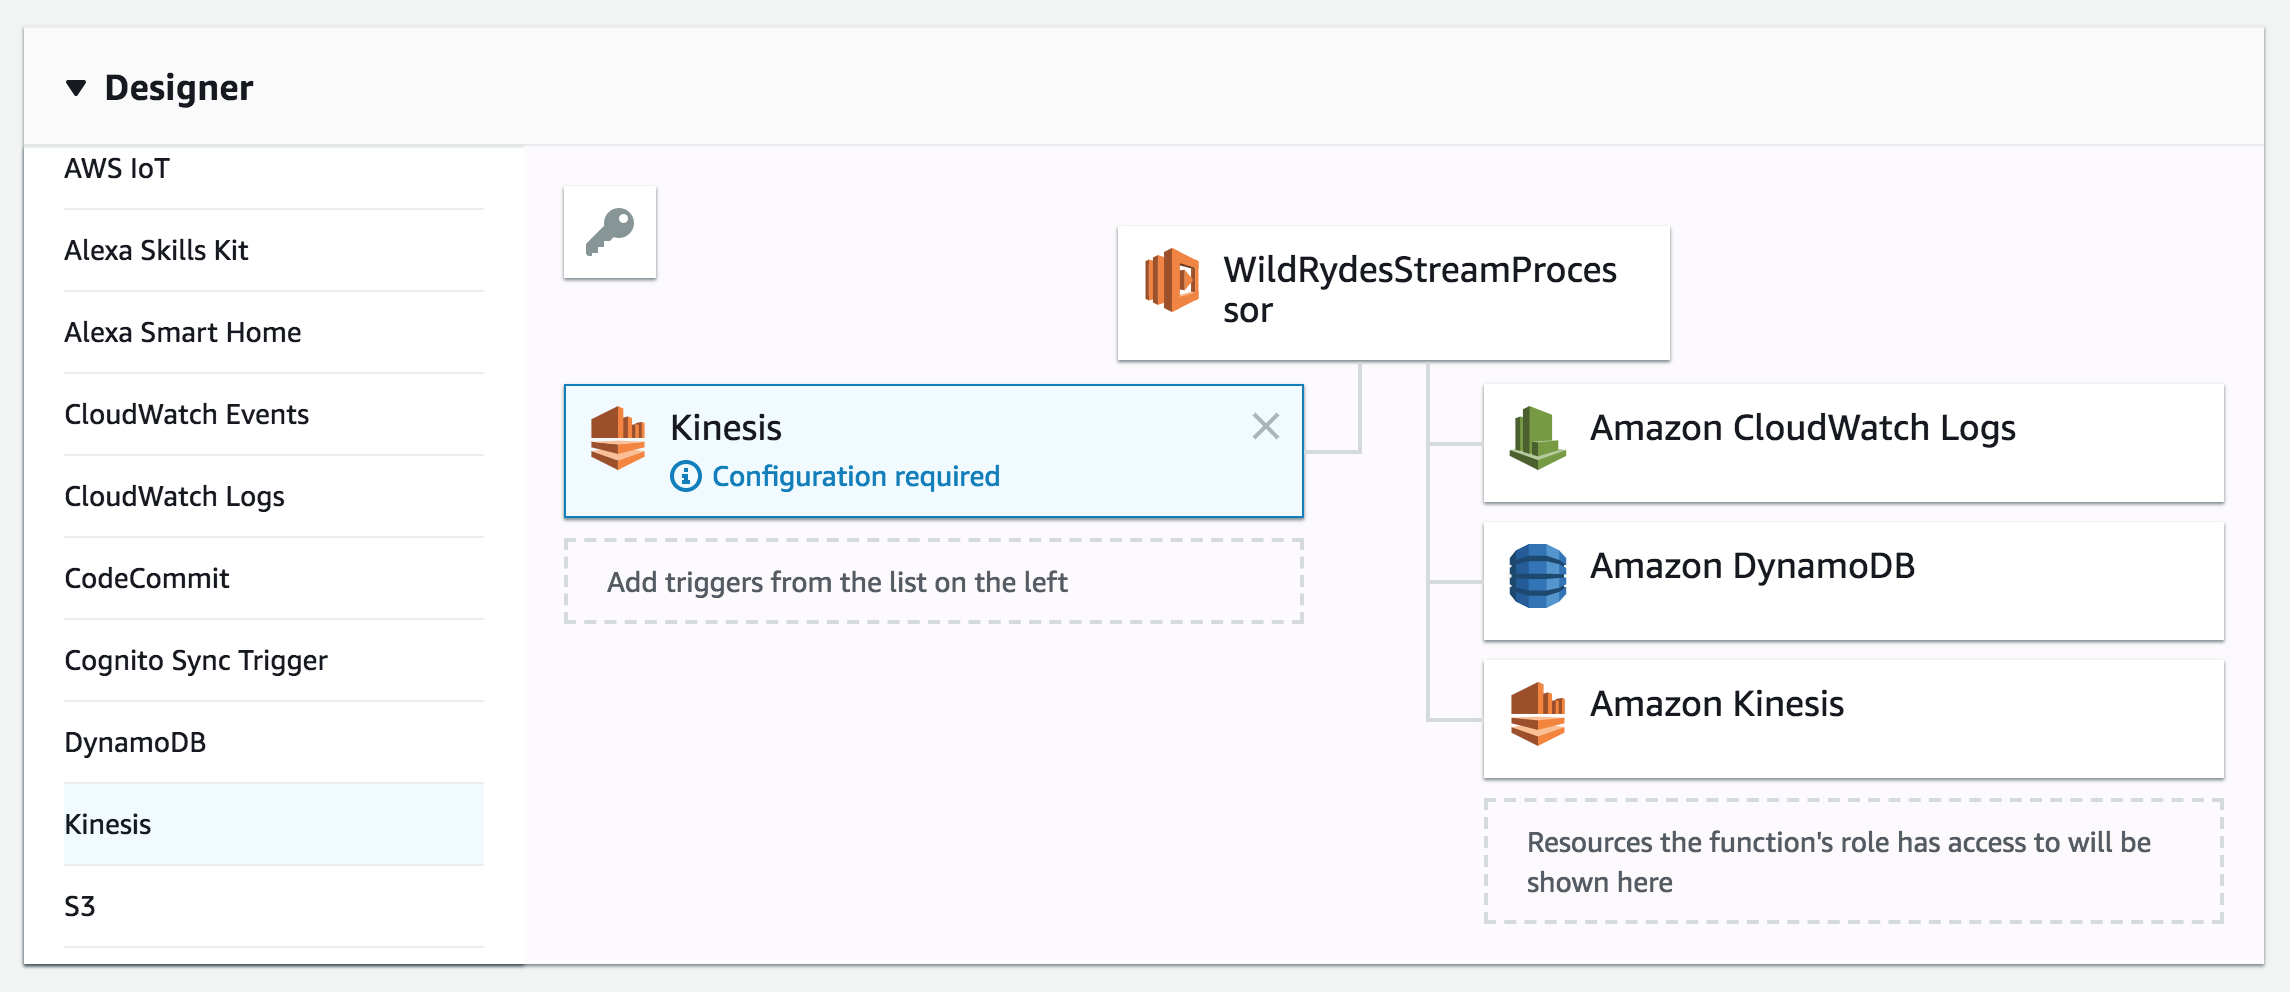
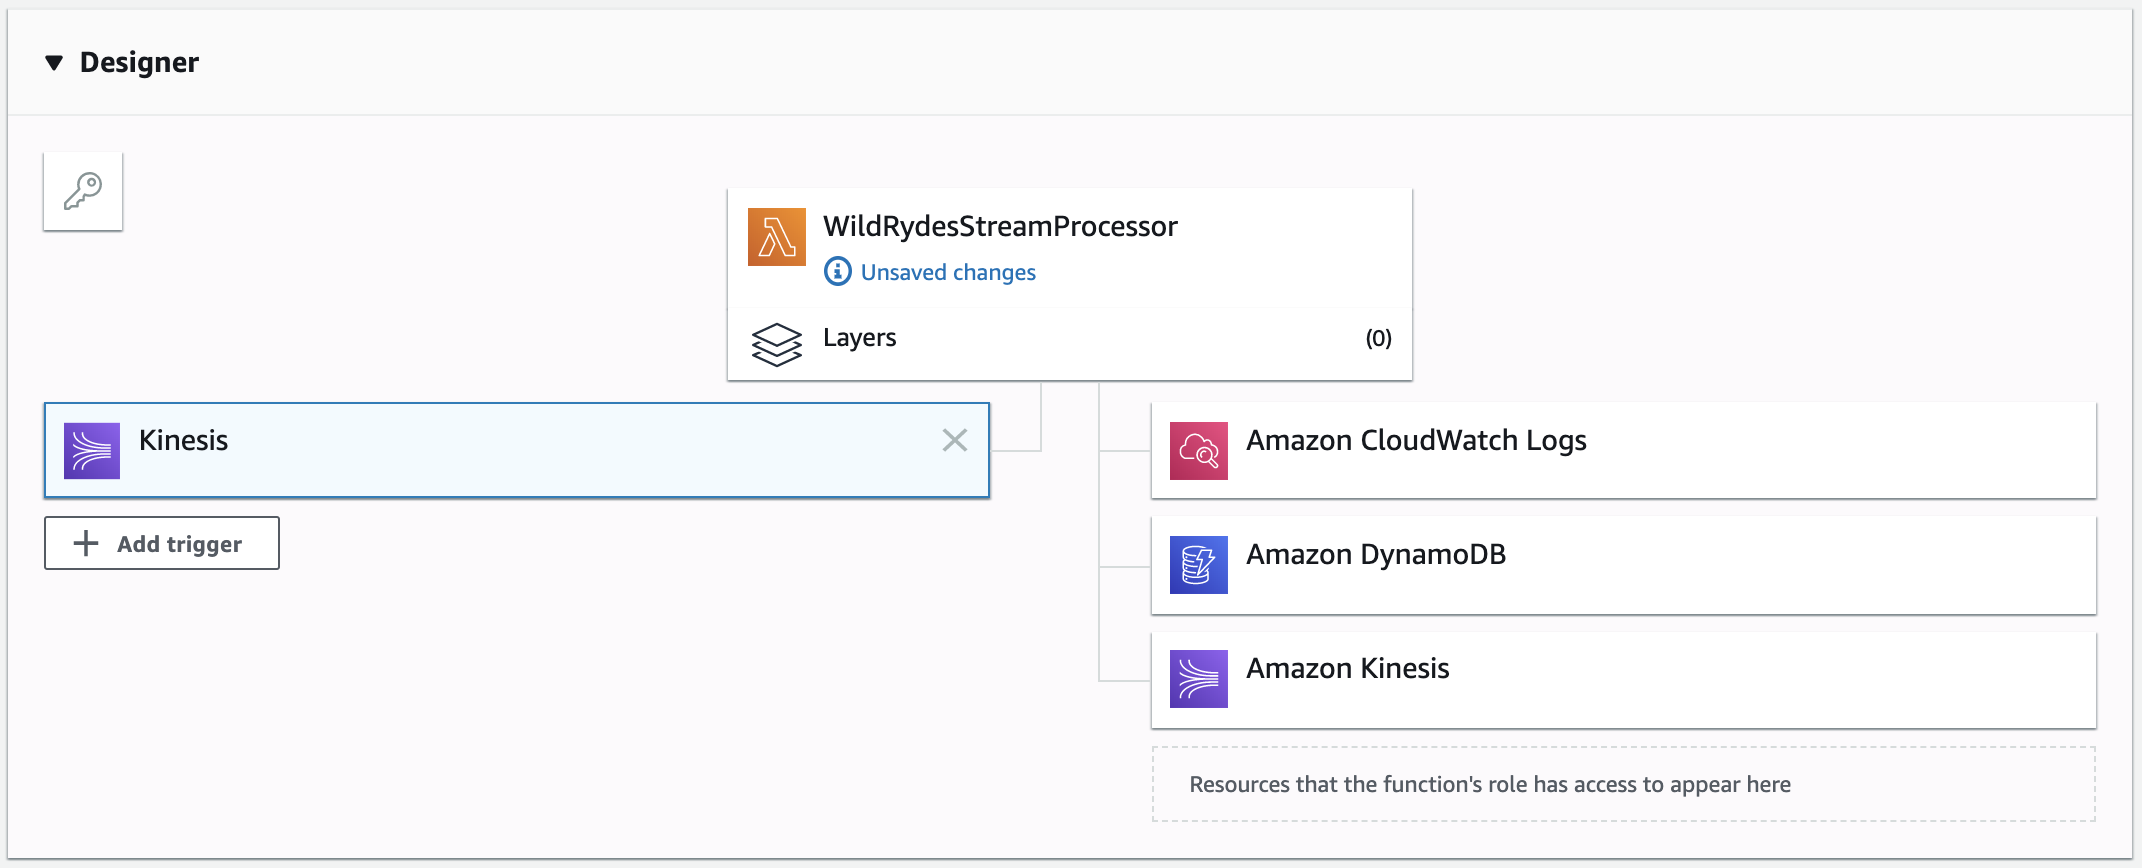
update 'Stream Processing' module with new screenshots

diff --git a/DataProcessing/guide/site/stream-processing.html b/DataProcessing/guide/site/stream-processing.html
@@ -75,12 +75,12 @@
 <ol type="1">
 <li><p>Go to the AWS Management Console, choose <strong>Services</strong> then select <strong>Lambda</strong> under Compute.</p></li>
 <li><p>Click <strong>Create a function</strong>.</p></li>
-<li><p>Enter <code>WildRydesStreamProcessor</code> in the <strong>Name</strong> field.</p></li>
+<li><p>Enter <code>WildRydesStreamProcessor</code> in the <strong>Function name</strong> field.</p></li>
+<li><p>Select <strong>Node.js 10.x</strong> from <strong>Runtime</strong>.</p></li>
 <li><p>Select <strong>WildRydesStreamProcessorRole</strong> from the <strong>Existing role</strong> dropdown.</p>
 <p><img src="./images/stream-processing-lambda-basic-information.png" /></p></li>
 <li><p>Click <strong>Create function</strong>.</p></li>
 <li><p>Scroll down to the <strong>Function code</strong> section.</p></li>
-<li><p>Select <strong>Node.js 6.10</strong> from <strong>Runtime</strong>.</p></li>
 <li><p>Copy and paste the JavaScript code below into the code editor.</p>
 <div class="sourceCode" id="cb1"><pre class="sourceCode javascript"><code class="sourceCode javascript"><a class="sourceLine" id="cb1-1" data-line-number="1"><span class="st">&#39;use strict&#39;</span><span class="op">;</span></a>
 <a class="sourceLine" id="cb1-2" data-line-number="2"></a>

diff --git a/DataProcessing/guide/content/stream-processing.md b/DataProcessing/guide/content/stream-processing.md
@@ -129,7 +129,9 @@ environment variable with the key `TABLE_NAME` and the value
 
 1. Click **Create a function**.
 
-1. Enter `WildRydesStreamProcessor` in the **Name** field.
+1. Enter `WildRydesStreamProcessor` in the **Function name** field.
+
+1. Select **Node.js 10.x** from **Runtime**.
 
 1. Select **WildRydesStreamProcessorRole** from the **Existing role** dropdown.
 
@@ -138,8 +140,6 @@ environment variable with the key `TABLE_NAME` and the value
 1. Click **Create function**.
 
 1. Scroll down to the **Function code** section.
-
-1. Select **Node.js 6.10** from **Runtime**.
 
 1. Copy and paste the JavaScript code below into the code editor.
 
